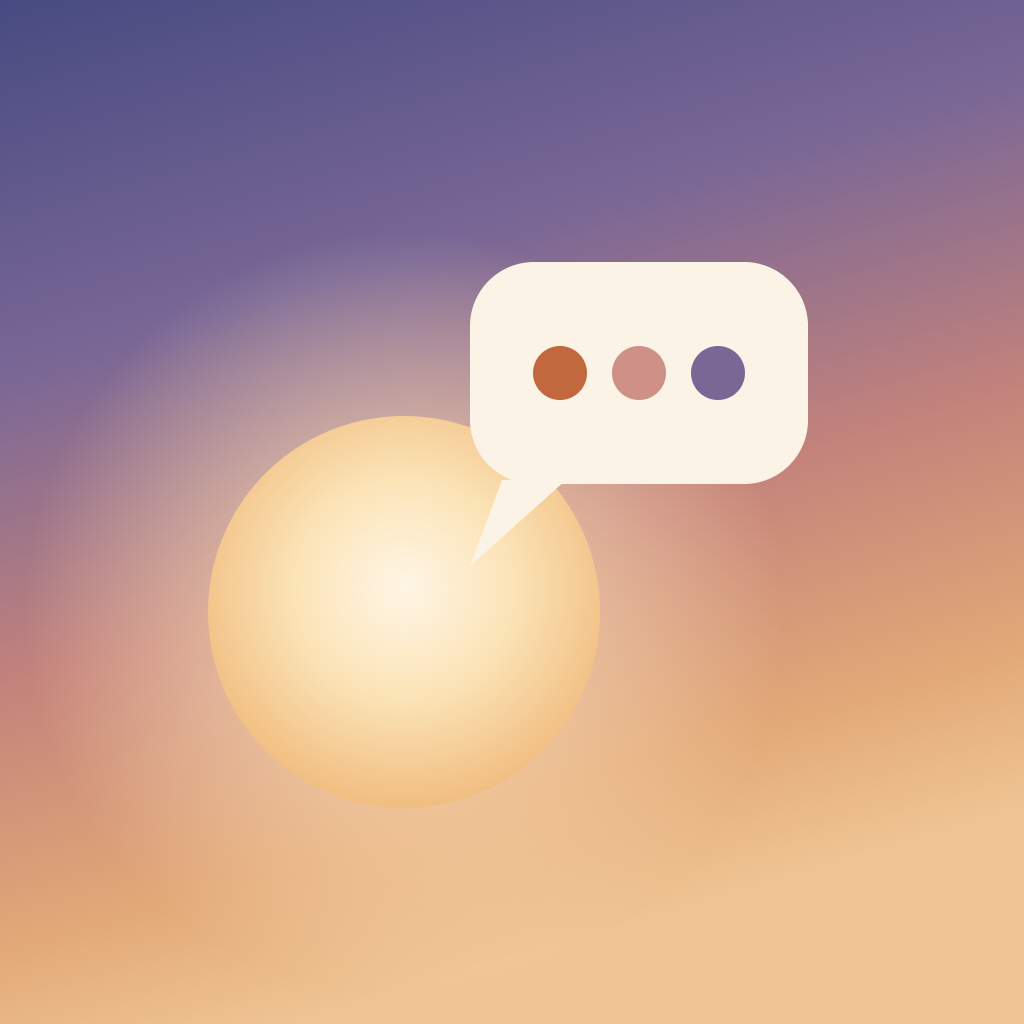
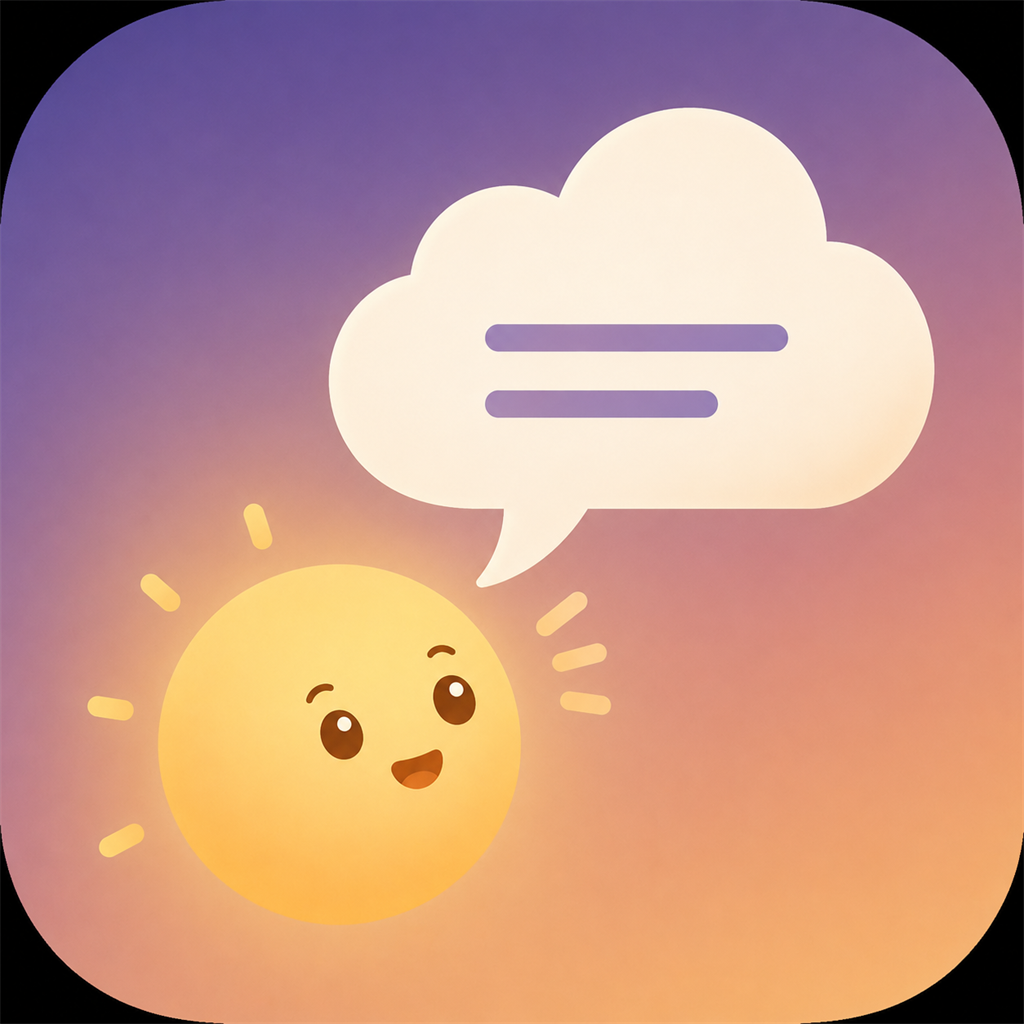
chore: 새 앱 아이콘 적용 + 버전 1.1.1/vc29
해/말풍선 새 아이콘으로 교체 (icon.png, adaptive-icon.png).
android 런처 mipmap 5종 density 재생성(로컬, android/는 gitignore).

diff --git a/src/screens/SettingsScreen.tsx b/src/screens/SettingsScreen.tsx
@@ -381,7 +381,7 @@ export default function SettingsScreen() {
       {/* 앱 정보 */}
       <View style={styles.appInfo}>
         <Text style={styles.appName}>하우웨더유</Text>
-        <Text style={styles.appVersion}>v1.1.0</Text>
+        <Text style={styles.appVersion}>v1.1.1</Text>
       </View>
       </ScrollView>
     </View>